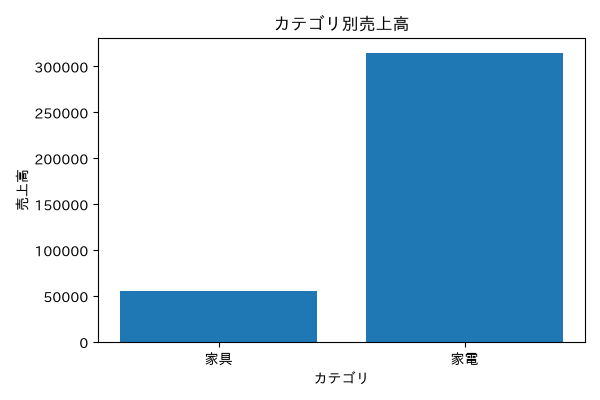
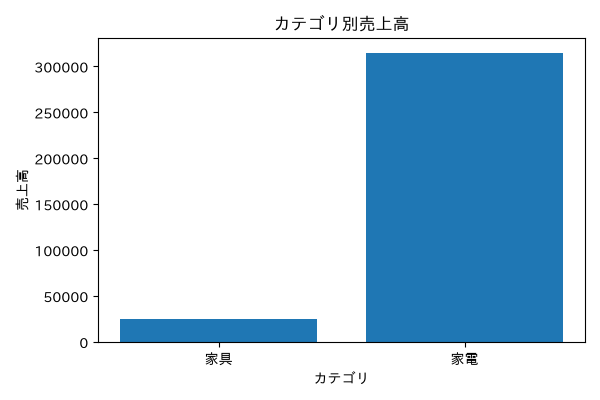
Fix plot display with plotly

Changed region(s): [[0.18, 0.72, 0.54, 0.81]]

diff --git a/app.py b/app.py
@@ -1,0 +1,48 @@
+import streamlit as st
+import pandas as pd
+import plotly.express as px
+
+st.title("📊 売上データ集計 & グラフ化ツール")
+
+# 1. ファイルアップロード機能
+uploaded_file = st.file_uploader("CSVファイルをアップロードしてください", type=["csv"])
+
+if uploaded_file is not None:
+    df = pd.read_csv(uploaded_file)
+    
+    # 日付列が存在する場合の処理
+    if '日付' in df.columns:
+        df['日付'] = pd.to_datetime(df['日付'])
+        
+        min_date = df['日付'].min().date()
+        max_date = df['日付'].max().date()
+        
+        st.sidebar.header("フィルタ設定")
+        start_date = st.sidebar.date_input("開始日", min_date)
+        end_date = st.sidebar.date_input("終了日", max_date)
+        
+        # データの絞り込み
+        mask = (df['日付'].dt.date >= start_date) & (df['日付'].dt.date <= end_date)
+        df = df.loc[mask]
+
+    if not df.empty:
+        # 集計処理
+        df['売上高'] = df['数量'] * df['単価']
+        summary = df.groupby('カテゴリ')['売上高'].sum().reset_index()
+
+        # データ表示
+        st.subheader("集計結果")
+        st.write(summary.to_html(index=False), unsafe_allow_html=True)
+
+        # グラフ描画（Plotlyを使って文字化け・枠切れを完全回避）
+        st.subheader("カテゴリ別売上高")
+        fig = px.bar(
+            summary, 
+            x='カテゴリ', 
+            y='売上高', 
+            title="カテゴリ別売上高",
+            text_auto=True
+        )
+        st.plotly_chart(fig, use_container_width=True)
+    else:
+        st.warning("指定された期間内にデータが存在しません。")
